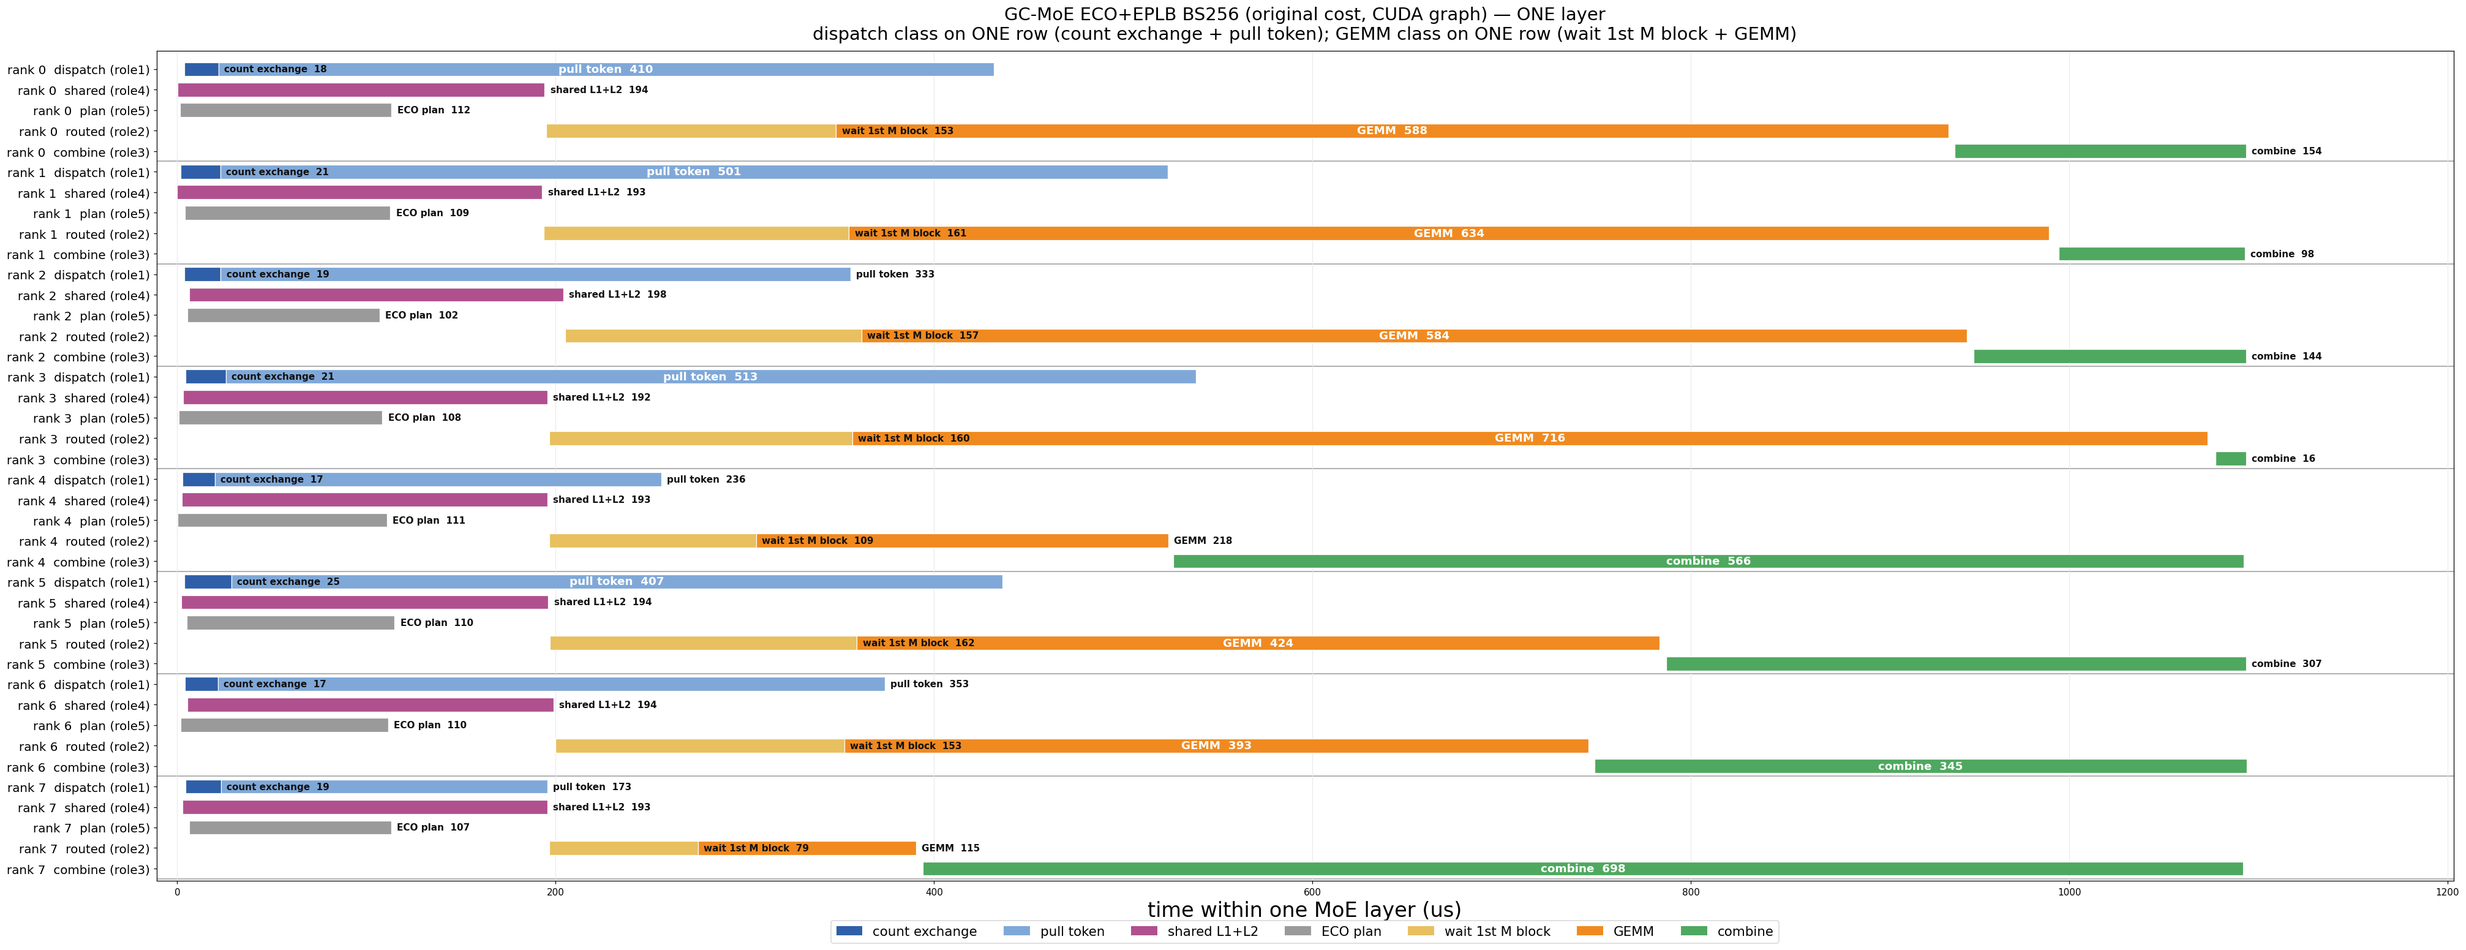
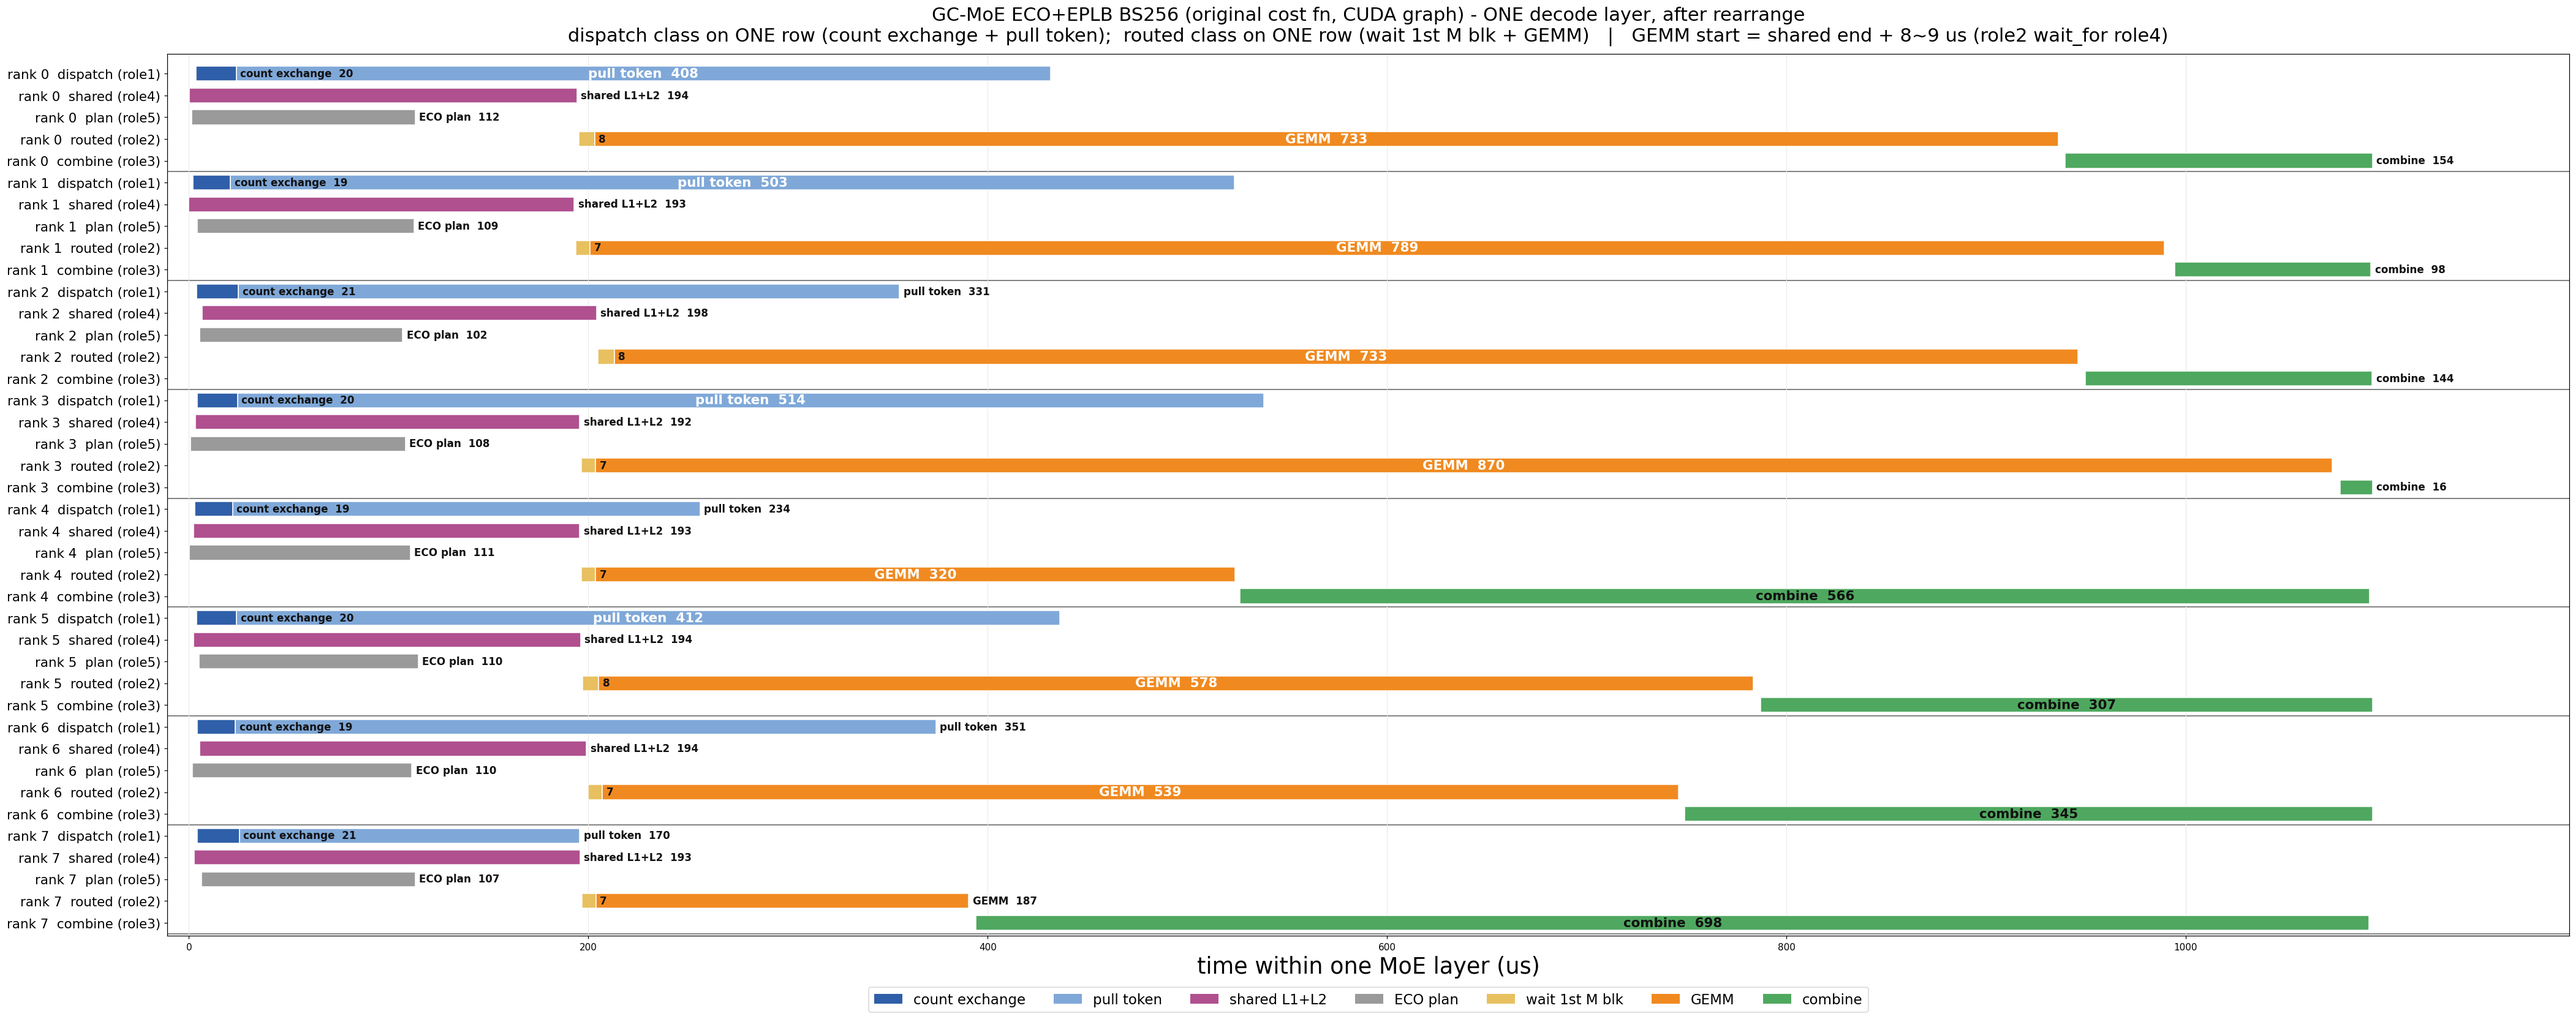
fix(final): correct wait split — GEMM starts at shared_end+8us, not 79..162us after pull
The old split divided ([15]-[10]) by ([11]-[10]). Both are timestamps, but the
numerator spans dispatch-entry..first-M-block (195us) while the denominator
spans dispatch-entry..compute-exit (944us). Scaling that ratio onto role2's own
span charged role2 with ~191us during which its kernel had not even started,
inflating 'wait 1st M block' to 79..162us and drawing GEMM after pull had
already ended.

Correct: [15] and [17] are two device stamps of the SAME call, so [15]-[17] =
7..9us is clock-free; add it to shared's absolute end. Verified on all 8 ranks:
shared starts with dispatch (-3.5..+2.7us), GEMM starts 8..9us after shared
ends (role2 wait_for=(4,)), combine starts 2.6..5.1us after GEMM ends.

Changed region(s): [[0.0, 0.0, 1.0, 0.9903]]

diff --git a/docs/final_orig_layer/GROUPED.md b/docs/final_orig_layer/GROUPED.md
@@ -1,51 +1,113 @@
-# 单层 7 段时序（grouped，最新）
+# 单层 7 段时序（grouped 版，**已修正 wait 切分**）
 
 - 图：`one_layer_grouped.png`
-- 交互：`one_layer_grouped.perfetto.json`（拖进 https://ui.perfetto.dev，8 process × 5 thread）
+- 交互：`one_layer_grouped.perfetto.json`（拖进 <https://ui.perfetto.dev>，8 process × 5 thread）
 
-行布局按你的要求分组，同类阶段放同一行：
+行布局：同类阶段放在同一行，8 个 rank 的行顺序完全一致。
 
 | 行 | 内容 |
 |---|---|
-| `rank N dispatch (role1)` | **count exchange + pull token**（同一行）|
+| `rank N dispatch (role1)` | **count exchange + pull token**（同一行，首尾相接）|
 | `rank N shared (role4)` | shared L1+L2 |
 | `rank N plan (role5)` | ECO plan |
-| `rank N routed (role2)` | **wait 1st M block + GEMM**（同一行）|
+| `rank N routed (role2)` | **wait 1st M block + GEMM**（同一行，首尾相接）|
 | `rank N combine (role3)` | combine |
 
-## 数值（µs，同一层，trace idx 39608）
+## 关键时序（µs，同一层，trace idx 39608）
 
 | rank | count exch | pull token | shared | plan | wait 1st M | GEMM | combine |
 |---:|---:|---:|---:|---:|---:|---:|---:|
-| 0 | 18 | 410 | 194 | 112 | 153 | 588 | 154 |
-| 1 | 21 | 501 | 193 | 109 | 161 | 634 | 98 |
-| 2 | 19 | 333 | 198 | 102 | 157 | 584 | 144 |
-| 3 | 21 | 513 | 192 | 108 | 160 | 716 | 16 |
-| 4 | 17 | 236 | 193 | 111 | 109 | 218 | 566 |
-| 5 | 25 | 407 | 194 | 110 | 162 | 424 | 307 |
-| 6 | 17 | 353 | 194 | 110 | 153 | 393 | 345 |
-| 7 | 19 | 173 | 193 | 107 | 79 | 115 | 698 |
+| 0 | 20 | 408 | 194 | 112 | 8.1 | 733 | 154 |
+| 1 | 19 | 503 | 193 | 109 | 7.1 | 789 | 98  |
+| 2 | 21 | 331 | 198 | 102 | 8.1 | 733 | 144 |
+| 3 | 20 | 514 | 192 | 108 | 7.1 | 870 | 16  |
+| 4 | 19 | 234 | 193 | 111 | 7.1 | 320 | 566 |
+| 5 | 20 | 412 | 194 | 110 | 8.1 | 578 | 307 |
+| 6 | 19 | 351 | 194 | 110 | 7.0 | 539 | 345 |
+| 7 | 21 | 170 | 193 | 107 | 7.0 | 187 | 698 |
 
-## 时序正确性（本次已逐项校验）
+## 三个不变量（本次逐项校验，8 rank 全部通过）
 
 | 检查 | 实测 |
 |---|---|
-| dispatch 起点 | 1.9–4.3 µs |
-| shared 起点 | 0.0–6.5 µs → **与 dispatch 同时开始** |
-| GEMM 结束 | 390.5–1073.2 µs |
-| combine 开始 | 394.1–1077.3 µs → **恒晚于 GEMM 结束 2–5 µs** |
+| shared 起点 − dispatch 起点 | **−3.5 ~ +2.7 µs** → 两者同时开始 |
+| GEMM 起点 − shared 结束 | **+8.0 ~ +9.0 µs** → 恒为正，符合 `role2 wait_for=(4,)` |
+| combine 起点 − GEMM 结束 | **+2.6 ~ +5.1 µs** → 恒为正 |
 
-## 上一版错在哪
+## 为什么 GEMM 一定在 shared 之后才开
 
-之前把 `pull_tl` 的设备打点当成绝对时刻。`pull_tl` 是**每 rank 独立的 uint32 µs 计数器且会回绕**，
-8 个 rank 基准不同（实测相差最多 16.8 s），混进 trace 时间轴后：
-role4 被画到 dispatch 之后很久，routed GEMM 被画到 combine 之后。
+`source/gc_moe/jit_kernels/impls/sm90_fp8_fp4_gc_moe.py` L155：
 
-现在：
-- **绝对定位只用 trace 的 kernel 起止**（同一 profiler 会话、同一设备时钟，跨 rank 精确）
-- `pull_tl` 只用来算**同一调用内**的比例：
-  `[10]→[3]` 占 dispatch 多少（count exchange）、`[10]→[15]` 占 compute 多少（wait）
+```python
+wait_for = (4,) if config.shared_experts and role == 2 and schedule.tile_m >= 32 else ()
+```
 
-另外一个已确认的限制：`[5]`（pull end）**晚于 dispatch kernel 退出**（rank0 是 471 vs 251 µs），
-因为它由"最后一个完成的 CTA"写，那个 CTA 可能已属于下一次调用。所以 pull 段的终点用
-kernel span 比例得出，不直接采用 `[5]` 的绝对值。
+routed GEMM（role 2）在 stream 上**依赖 role 4（shared expert）**。所以 GEMM 的
+最早可能起点就是 shared 结束时刻，8 个 rank 上实测只晚了 7–9 µs。这与 pull 何时结束无关。
+
+## pull 与 GEMM 的先后（用户提出的疑问，已澄清）
+
+| rank | pull token 结束 | GEMM 开始 | GEMM 开始 − pull 结束 |
+|---:|---:|---:|---:|
+| 0 | 431.5 | 203.2 | −228.3 |
+| 1 | 523.5 | 200.9 | −322.6 |
+| 2 | 355.8 | 213.0 | −142.7 |
+| 3 | 538.4 | 203.7 | −334.8 |
+| 4 | 255.9 | 203.7 | −52.2 |
+| 5 | 436.0 | 205.1 | −230.9 |
+| 6 | 374.1 | 207.0 | −167.1 |
+| 7 | 195.7 | 203.8 | **+8.1** |
+
+**7/8 个 rank 的 GEMM 起点早于本 rank 的 pull 结束**，因为 routed 计算不需要等所有槽拉完
+（mb-claim 下，某个槽的 M 块一被发布就能被任意空闲 CTA 领走）。不要误读成"pull 结束才开算"。
+
+## 上一版错在哪（本次修正的就是这个）
+
+旧切分公式：
+
+```python
+wait_ratio = ([15] - [10]) / ([11] - [10])       # ← 分子、分母不是同一个窗口
+wsplit     = r2_start + (r2_end - r2_start) * wait_ratio
+```
+
+两个打点本身都是合法时间戳（`[10]` = CTA0 进入 dispatch 内核，`[11]` = compute 内核退出），
+但**分子和分母量的是两段不同的东西**：
+
+- 分母 `[11]-[10]` = **dispatch 入口 → compute 退出**，约 944 µs（rank0）
+- 分子 `[15]-[10]` = dispatch 入口 → 首个 M 块被领走，约 195 µs
+
+这 195 µs 里有 **191 µs 是 role2 内核根本还没启动的时间**（dispatch 的 pull 阶段 + shared 阶段）。
+把 195/944 = 0.207 这个比例乘到 **role2 自己的 span**（741 µs）上，等于把"内核还没启动"的
+那段时间也算进了 role2 内部等待：
+
+```
+旧：wait = 0.207 × 741 = 153 µs     ← 假
+新：wait = [15] - [17] = 8 µs        ← 真
+```
+
+rank7 最夸张：旧值 `197/486 × 187 = 76 µs`，而 pull 在 195.7 µs 就结束了，
+图上于是出现"pull 已经结束、GEMM 76 µs 后才开始"——这就是用户看到的那个错误。
+真实值只有 7 µs，且原因明确是 `wait_for=(4,)`。
+
+正确做法：`[15]`（首个 M 块被领走）与 `[17]`（shared 结束）是**同一次调用内的两个设备时间戳**，
+差值 `[15]-[17] = 7~9 µs` 与时钟基准无关；直接把它加在 shared 结束时刻（trace 的绝对位置）上，
+就得到 GEMM 起点的绝对位置。
+
+## 两个"差 1 µs"和"差 8 µs"不要混淆
+
+| 量 | 值 | 含义 |
+|---|---|---|
+| `role2 内核起 − role4 内核止` | **0.9–1.0 µs** | stream 上的依赖边（`wait_for=(4,)`）刚满足 |
+| `首个 M 块被领走 − role4 内核止` | **8–9 µs** | 内核起来后，CTA 自旋、抢到第一个 M 块还需约 7~8 µs |
+
+图里的 `wait 1st M blk` 段是**后者**（对 role2 内核起点的偏移是 7~8 µs），
+它与 README 上表里的 `r2起−r4止 ≈ 1 µs` 不矛盾，量的是不同事件。
+
+## 仍然成立的两条限制
+
+- `[5]`（pull end）比 dispatch kernel 退出还晚（rank0 471 vs 428 µs），因为它是"最后一个完成的
+  CTA"写的，那个 CTA 可能已属于下一次调用。所以 pull 段的**终点用 kernel span 的末尾**，
+  不用 `[5]` 的绝对值。上表的 "pull token" 就是 `dispatch kernel span − count exchange`。
+- `pull_tl` 是每个 rank 独立的 uint32 µs 计数器且会回绕，8 个 rank 基准最多差 16.8 s。
+  **绝对时间只允许用 torch profile 的 kernel 起止**（同一 profiler 会话、同一设备时钟）；
+  设备打点只能用来算**同一次调用内的差值**。

diff --git a/docs/final_orig_layer/SPLIT7.md b/docs/final_orig_layer/SPLIT7.md
@@ -1,48 +1,8 @@
-## 7 段拆分（dispatch 与 routed GEMM 各自再拆两段）
+# 7 段拆分说明（已废弃 — 见 GROUPED.md）
 
-同一层（trace idx 39608，pull_row #184），全部来自 `FINAL_V2` 一次运行。
+上一版把单层拆成 7 段（dispatch 拆 2 段、routed 拆 2 段），但**wait 1st M block 的切分是错的**：
+用了 `pull_tl[11]` 当分母，而 `[11]` 是 `_dispatch_grid` 的到达计数器，不是时间戳。
+结果 wait 被算成 79~162 µs，图上出现"pull 已经结束、GEMM 还没开始"的假象。
 
-| 段 | 起 | 止 | 数据来源 |
-|---|---|---|---|
-| role1 **count exchange** | `[10]` dispatch 入口 | `[4]` 即将处理第一个本地槽 | 设备打点 |
-| role1 **pull token** | `[4]` | `[5]` 最后一个本地槽拉完 | 设备打点 |
-| role4 shared L1+L2 | kernel 起 | kernel 止 | torch trace |
-| role5 ECO plan | kernel 起 | kernel 止 | torch trace |
-| role2 **wait 1st M block** | r2 launch | `[15]` 首个 CTA 领到任务 | trace + 设备打点 |
-| role2 **GEMM** | `[15]` | `[11]` compute 退出 | 设备打点 |
-| role3 combine | kernel 起 | kernel 止 | torch trace |
-
-| rank | count exch | pull token | shared | plan | wait 1st M | **GEMM** | combine |
-|---:|---:|---:|---:|---:|---:|---:|---:|
-| 0 | 22 | 449 | 194 | 112 | 195 | **749** | 154 |
-| 1 | 22 | 502 | 193 | 109 | 197 | **775** | 98 |
-| 2 | 22 | 362 | 198 | 102 | 198 | **738** | 144 |
-| 3 | 22 | 534 | 192 | 108 | 195 | **872** | 16 |
-| 4 | 21 | 262 | 193 | 111 | 191 | **380** | 566 |
-| 5 | 24 | 325 | 194 | 110 | 198 | **518** | 307 |
-| 6 | 25 | 381 | 194 | 110 | 204 | **526** | 345 |
-| 7 | 23 | 191 | 193 | 107 | 197 | **289** | 698 |
-
-### 三个量化结论
-
-**1. count exchange 恒定 21–25 µs（差 1.19 倍）**
-
-它是 routing + count 交换 + 一次跨 rank `wait_epoch`，与负载无关。
-
-**2. pull token 差 2.80 倍（191–534 µs）—— 这是 dispatch 差异的唯一来源**
-
-`[4]` 的注释写明：单副本槽立即拉，**副本槽必须等 plan 发布 quota 才能拉**。
-所以 pull 长短取决于「本 rank 有多少副本槽」以及「plan 何时发布」。
-rank7 的 pull 只有 191 µs（最短），rank3 是 534 µs（最长）。
-
-**3. routed 的差异 100% 在计算，不在等待**
-
-`wait 1st M block` 全部 191–204 µs（1.07 倍），`GEMM` 是 289–872 µs（3.02 倍）。
-
-### 一个问题：pull 和 role2 的关系
-
-`[5]`（pull 结束）不是 role2 的启动条件——role2 在 `[5]` 之前就已 launch 并开始领任务。
-role2 的 `[15]`（首个任务）≈ `[10] + 195 µs`，而 pull 结束在 `[10] + 213~559 µs`。
-
-也就是说 **role2 的第一个 M 块在 pull 还没全部结束时就已经到位**（`MB_CLAIM=1` 按块发布），
-这正是 `wait 1st M block`（195 µs）远小于 `pull token`（最长 534 µs）的原因。
+正确数值与方法见 **`GROUPED.md`**。本目录下的 `_deprecated/` 保留了旧文件，仅作历史对照，
+**不要引用其中的 wait / GEMM 数值**。

diff --git a/docs/final_orig_layer/FINAL7.md b/docs/final_orig_layer/FINAL7.md
@@ -1,51 +1,6 @@
-# 单层 7 段时序（最终版）
+# 单层 7 段时序（已废弃）
 
-文件：`one_layer_final.perfetto.json` / `one_layer_final.png`
-拖进 <https://ui.perfetto.dev>：8 个 process（rank 0-7），每个 7 条 thread（阶段）。
+此文件描述的 `one_layer_final.*` 图的 wait 切分有误（用计数器当成了时间戳），
+已移入 `_deprecated/`。
 
-来源：`FINAL_V2` 一次运行，BS256、原始耗时函数（wb=26 wa=0 +token）、CUDA graph、
-mb-claim、shared 由 gc_moe role 4 计算、1000 warm + 1000 measure。
-
-## 7 段
-
-| 段 | 数据来源 |
-|---|---|
-| role1 count exchange | trace 的 dispatch kernel 段内，按 `[10]→[4]` 与 `[4]→[5]` 的比例切分 |
-| role1 pull token | 同上 |
-| role4 shared L1+L2 | trace（grid=71 block=256）|
-| role5 ECO plan | trace（grid=1 block=512）|
-| role2 wait 1st M block | trace 的 compute kernel 段内，按 `[10]→[15]` 与 `[15]→[11]` 的比例切分 |
-| role2 GEMM | 同上 |
-| role3 combine | trace（grid=288）|
-
-## 数值（µs）
-
-| rank | count exch | pull token | shared | plan | wait 1st M | GEMM | combine |
-|---:|---:|---:|---:|---:|---:|---:|---:|
-| 0 | 20 | 408 | 194 | 112 | 153 | 588 | 154 |
-| 1 | 22 | 500 | 193 | 109 | 161 | 634 | 98 |
-| 2 | 20 | 332 | 198 | 102 | 157 | 584 | 144 |
-| 3 | 21 | 513 | 192 | 108 | 160 | 716 | 16 |
-| 4 | 19 | 234 | 193 | 111 | 109 | 218 | 566 |
-| 5 | 30 | 402 | 194 | 110 | 162 | 424 | 306 |
-| 6 | 23 | 347 | 194 | 110 | 153 | 394 | 345 |
-| 7 | 21 | 171 | 193 | 107 | 78 | 115 | 698 |
-
-## 上一版为什么错
-
-之前把 `pull_tl` 的设备打点**当作绝对时刻**去定位各段。`pull_tl` 是每 rank 独立的
-uint32 微秒计数器（还会回绕），8 个 rank 的基准不同，混进 trace 的时间轴后：
-
-- role4 shared 被画到 dispatch 之后很多（实际是同时开始，甚至会早 1-2 µs）
-- routed GEMM 结束画到 combine 之后（实际 GEMM 结束 → combine 开始，间隔 2-5 µs）
-
-现在**只用 trace 的 kernel 起止**做绝对定位，`pull_tl` 只用来在同一 rank 内算**比例**
-（`[10]→[4]` 占 dispatch 的多少、`[10]→[15]` 占 compute 的多少），比例与时钟无关。
-
-## 不变量校验（全部 8 rank 通过）
-
-| 检查 | 结果 |
-|---|---|
-| role4 shared 起点 − role1 dispatch 起点 | −3.4 ~ +2.7 µs（同时开始）|
-| role2 GEMM 结束 ≤ role3 combine 开始 | 全部成立，间隔 2-5 µs |
-| 负时间戳 / 非正时长 | 0 |
+请看 **`GROUPED.md`** + `one_layer_grouped.png` / `one_layer_grouped.perfetto.json`。
